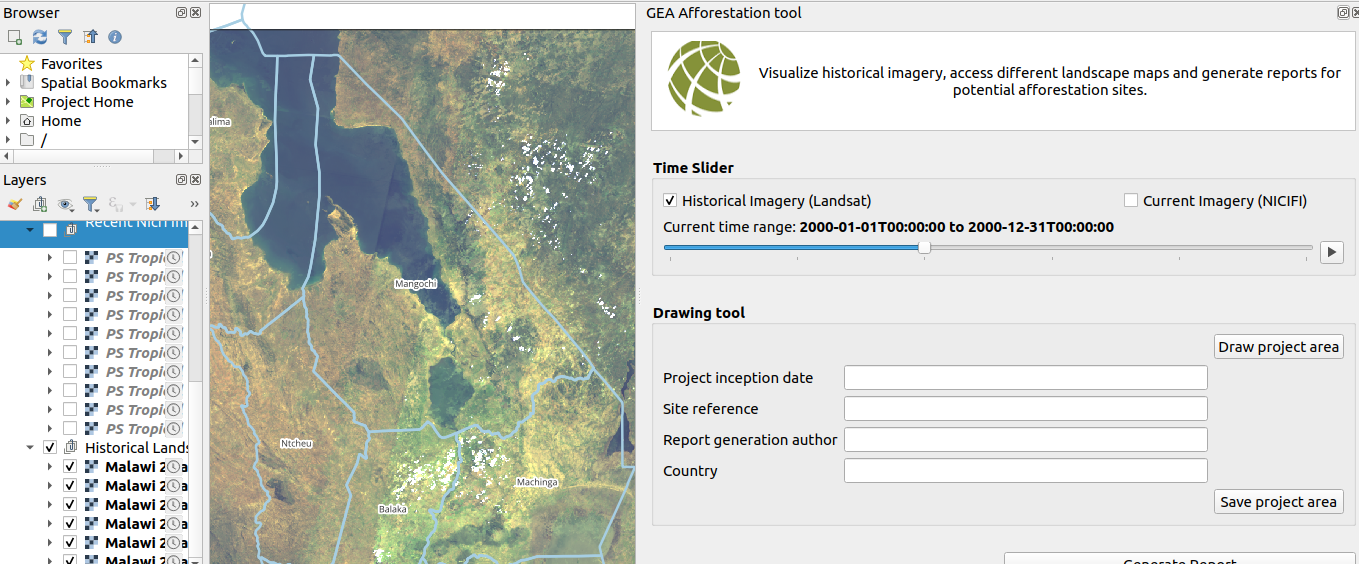
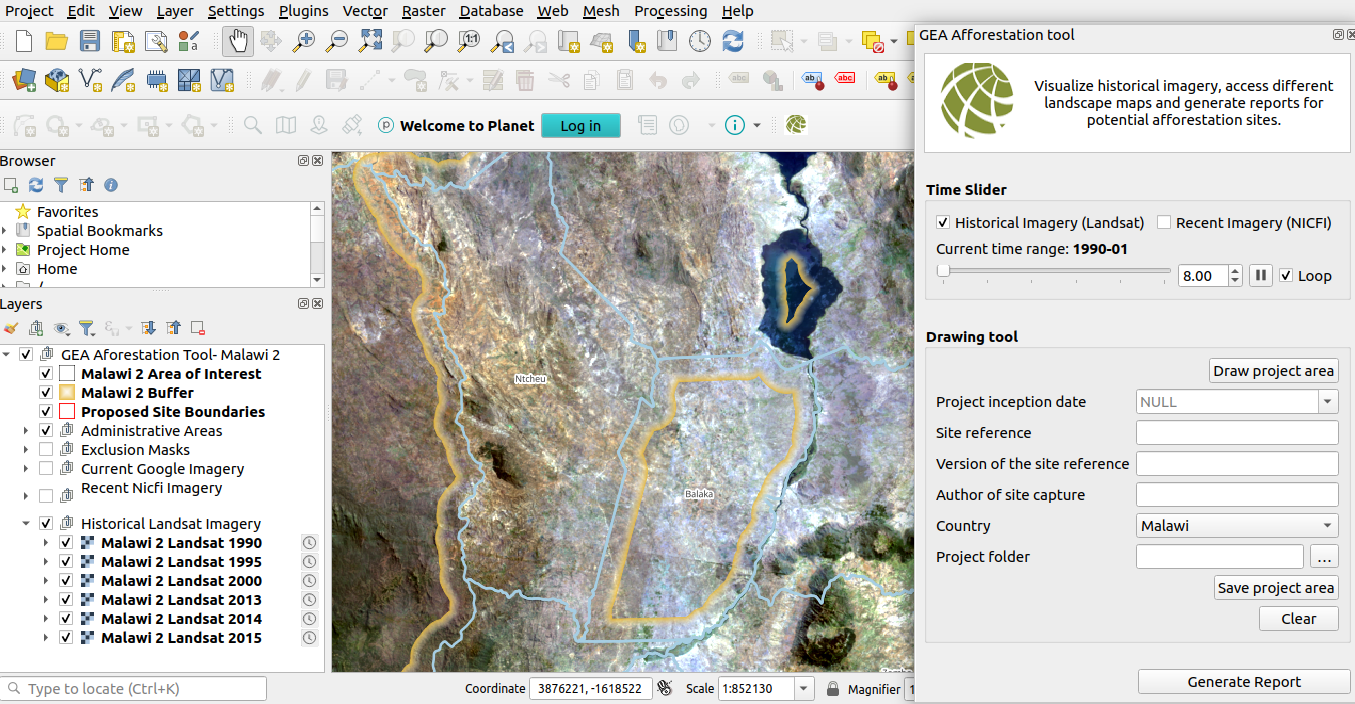
Add content update screenshots

diff --git a/docs/src/user/manual/gea-reforestation-tool.md b/docs/src/user/manual/gea-reforestation-tool.md
@@ -14,26 +14,31 @@ Welcome to the GEA Reforestation Tool user manual. This guide will help you navi
 
 **Slide Bar:** The slide bar allows users to view the selected imagery on the map canvas. The functionality of the slide bar depends on the checkbox selection:
 
-- **Historical Imagery Checkbox Checked:** The map canvas will display historical imagery from Landsat.
+- **Historical Imagery (Landsat) Checkbox Checked:** The map canvas will display historical imagery from Landsat.
 
 ![Historical Imagery](./img/gea-reforestation-tool-2.png)
 
-- **Recent Imagery Checkbox Checked:** The map canvas will display recent imagery from NICFI.
+- **Recent Imagery (Nicfi) Checkbox Checked:** The map canvas will display recent imagery from NICFI.
 
 ![Recent Imagery](./img/gea-reforestation-tool-3.png)
 
-
 The user can use the slide bar by dragging the toggle to the next or previous increment to view the corresponding imagery on the map canvas.
 
- **Play Button:** The play button allows users to play through the selected imagery. This feature is useful for visualising changes in the landscape over time.
+**Play Button:** The play button allows users to play through the selected imagery. This feature is useful for visualising changes in the landscape over time.
+
+**Frame Rate:** allows users to set the frame rate to a larger or smaller number to play through the images quicker or slower respectively
+
+**Loop Checbox:** This checkbox allows the user to continuously loop through the selected images.
+
+****Current Time Range:** Current time range shows the year and month of the image being shown on the map canvas.
 
 **Historical Imagery**
 
-![Historical Imagery play](./img/Landsat-working.gif)
+![Historical Imagery play](./img/HistoricalLandsat.gif)
 
 **Recent Imagery**
 
-![Recent Imagery play](./img/NICFIworking.gif)
+![Recent Imagery play](./img/Nicfi.gif)
 
 ## Drawing tool
 
